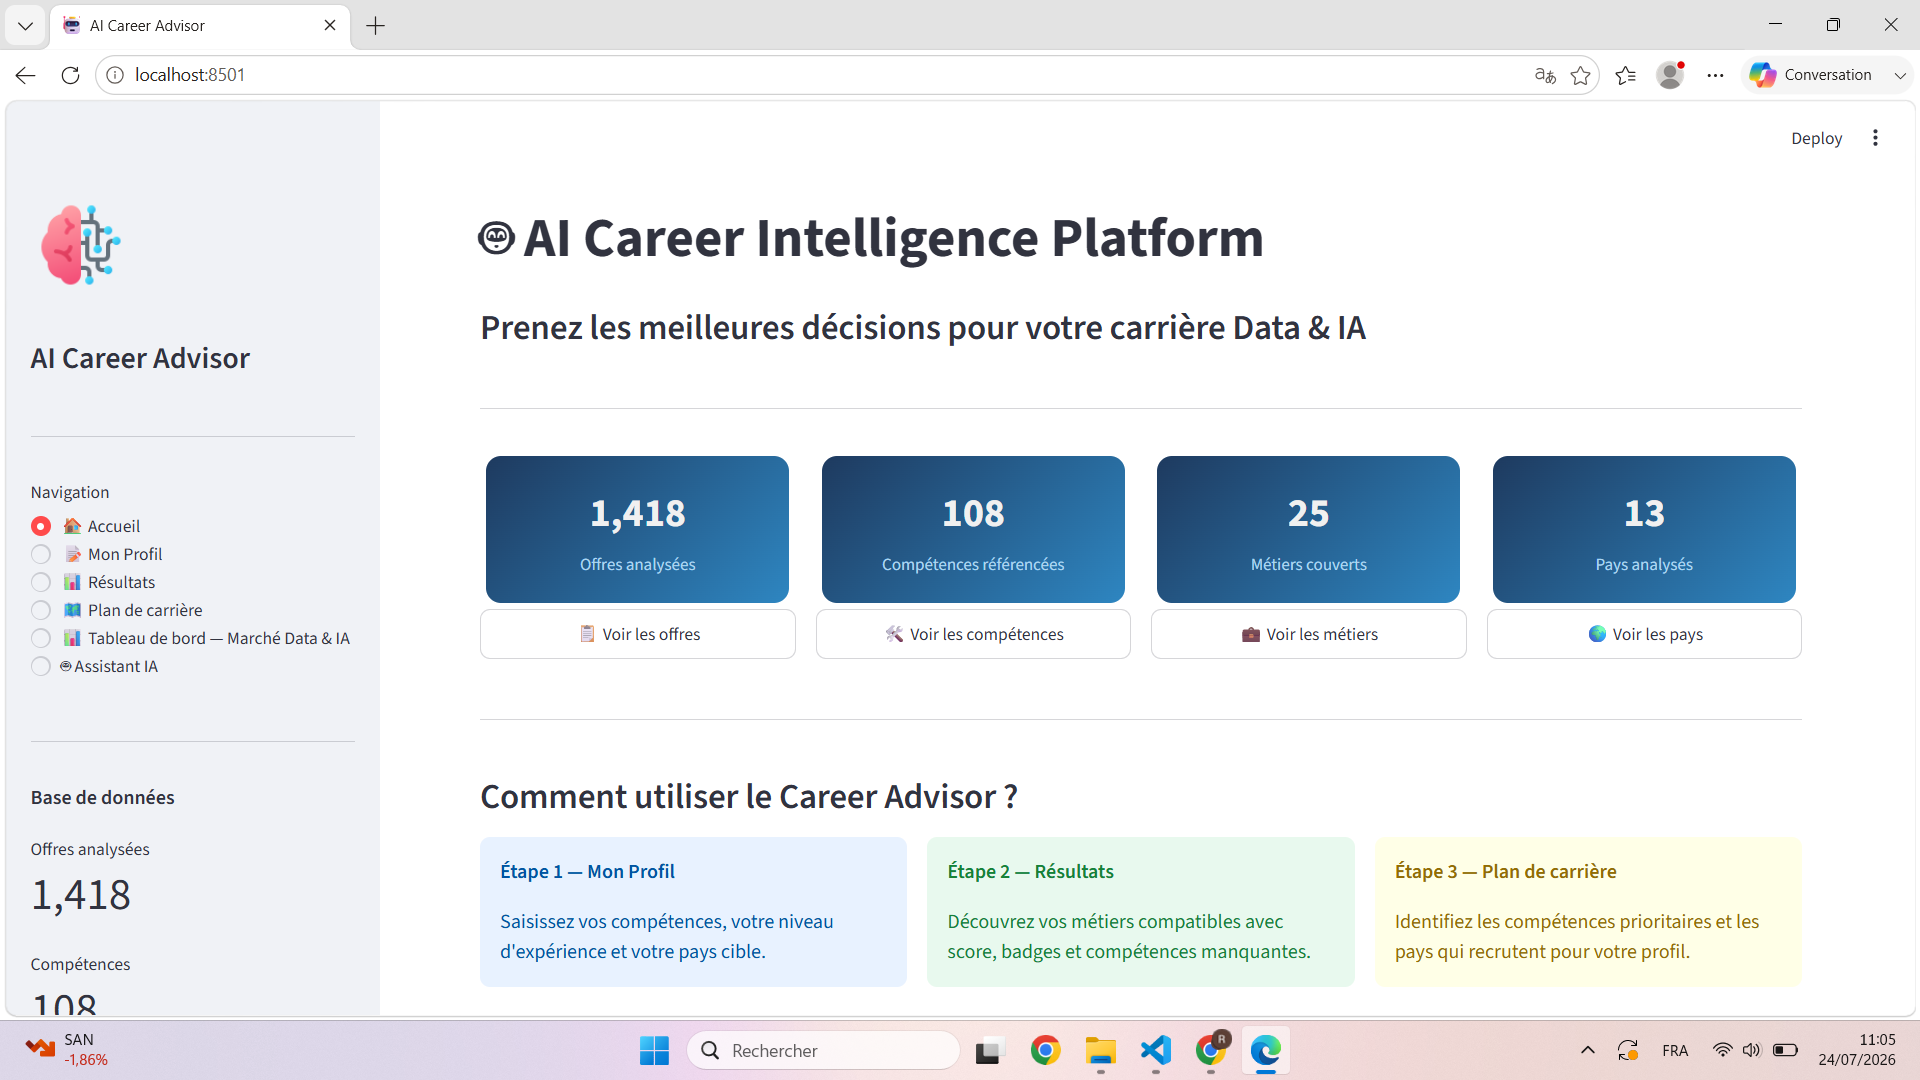
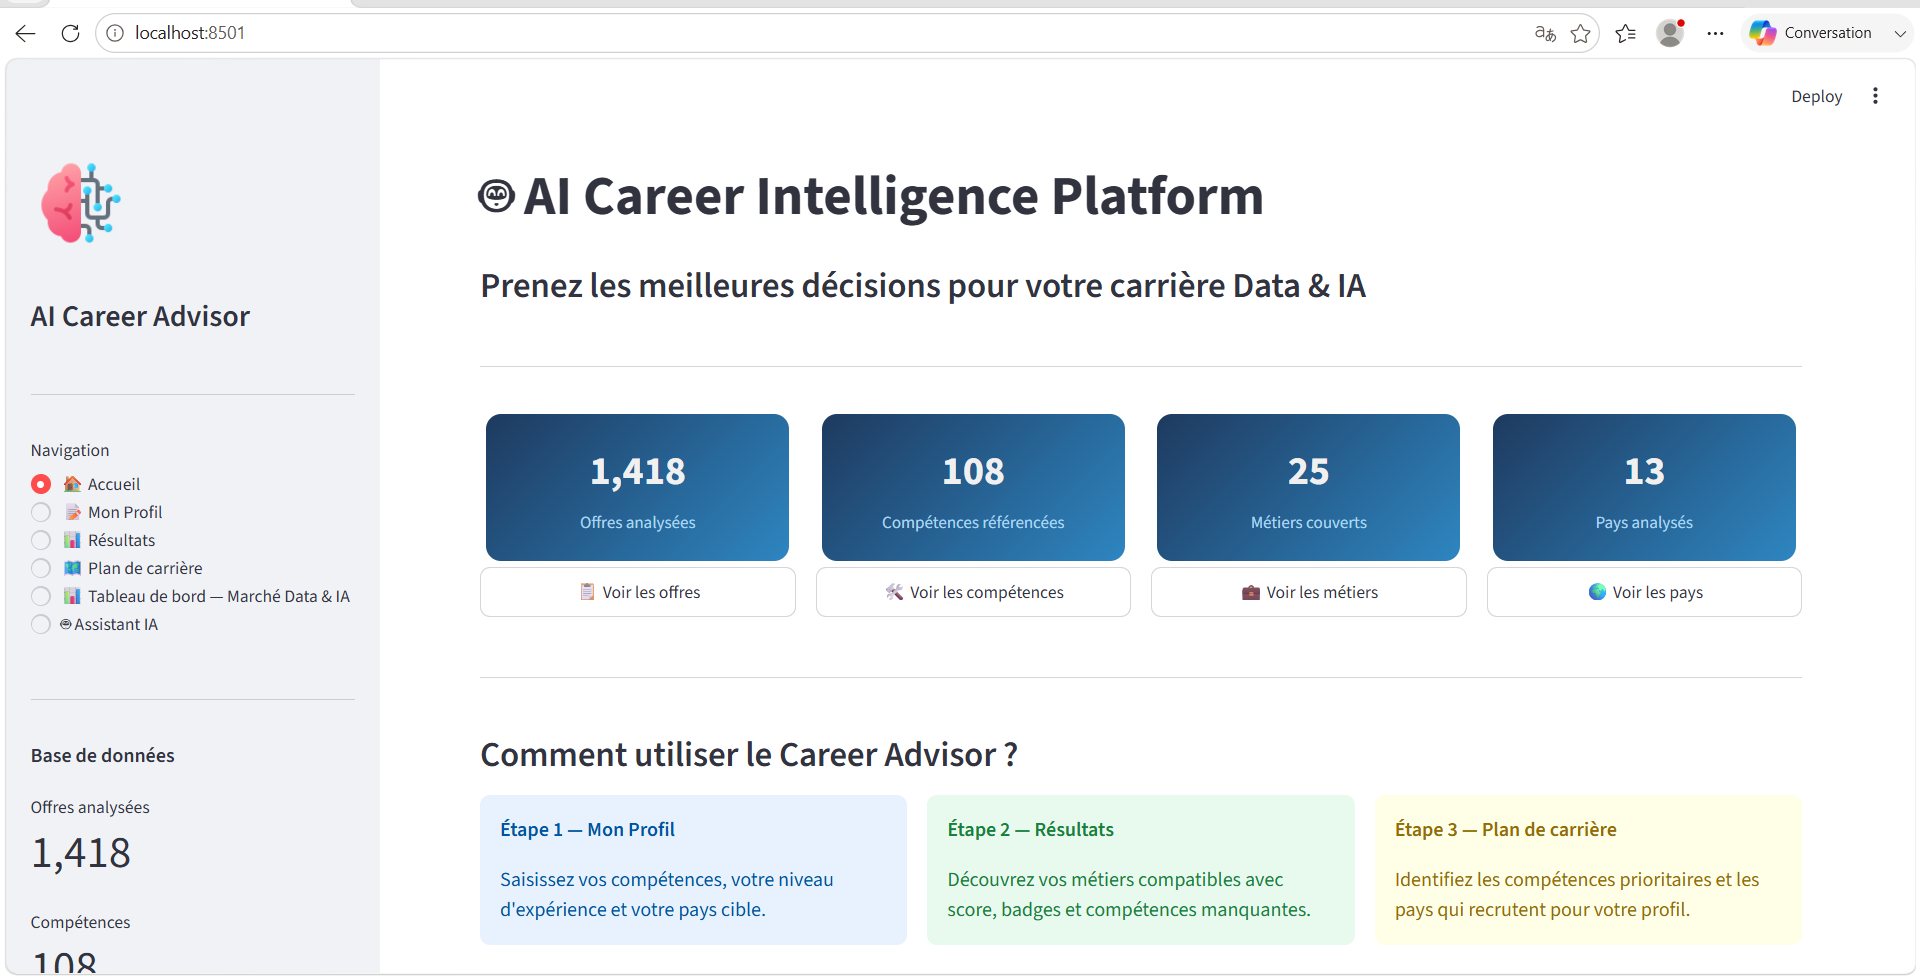
Update README file

diff --git a/README.md b/README.md
@@ -181,4 +181,4 @@ INSAT – Université de Carthage
 
 # 📄 Licence
 
-Projet académique développé dans le cadre d'un stage de fin d'année.
+Projet académique développé dans le cadre d'un stage d'été.